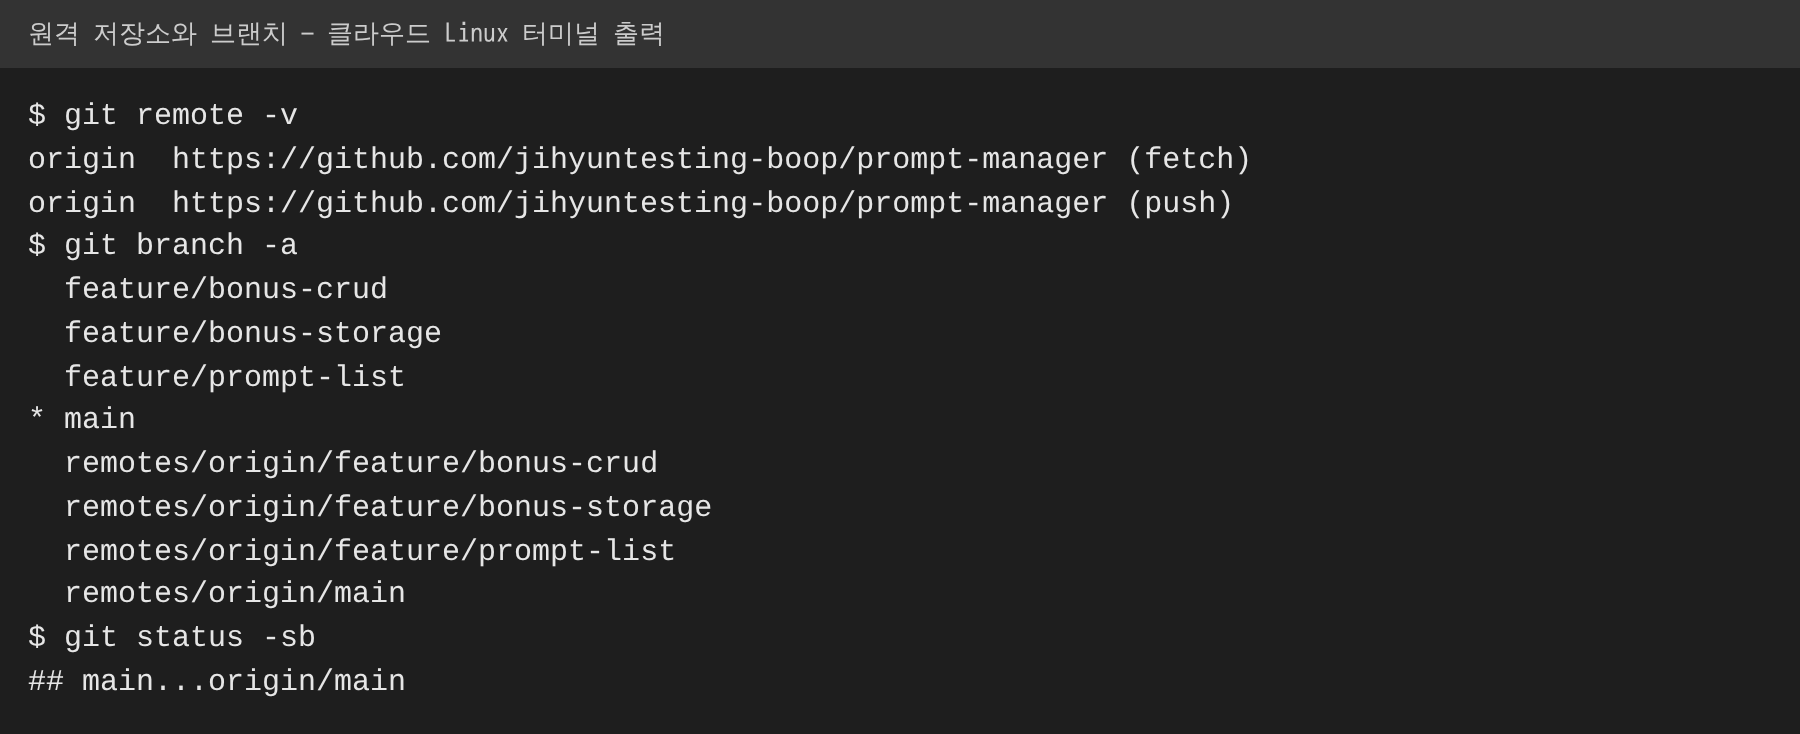
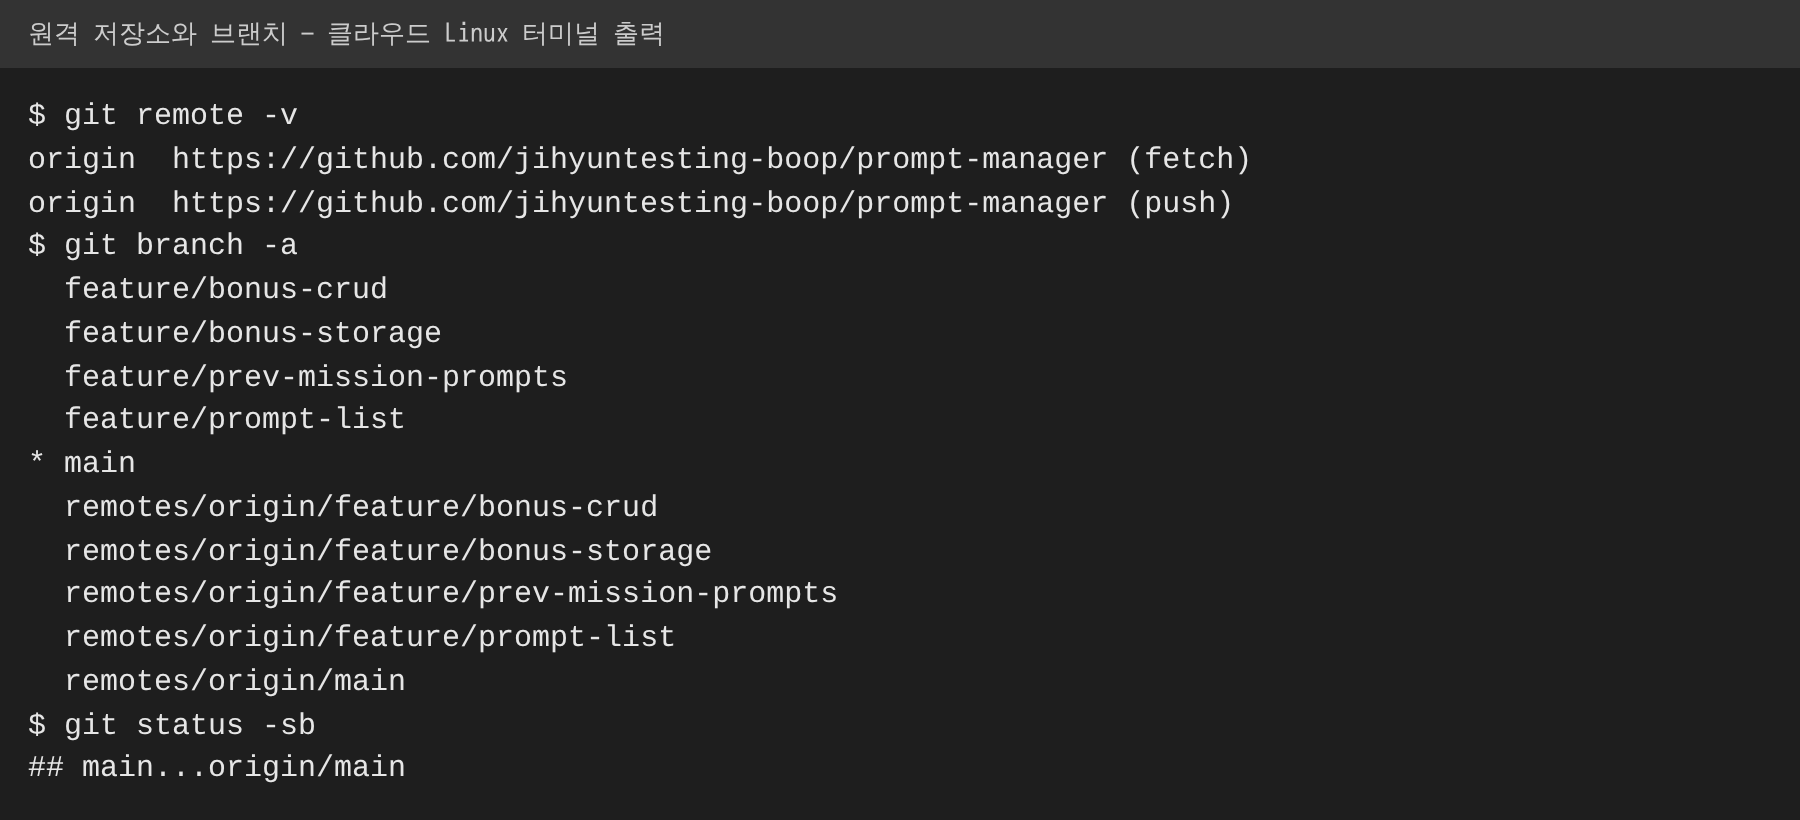
docs: update checklist for real prompts, refresh screenshots
Claude-Session: https://claude.ai/code/session_015SUUWzmeZgfThQq5sPifod

Changed region(s): [[0.0, 0.1199, 0.6844, 0.9591], [0.0, 0.03, 0.3733, 0.0599]]

diff --git a/CHECKLIST.md b/CHECKLIST.md
@@ -11,7 +11,7 @@
 | ✅ | 메뉴 번호로 기능을 선택하는 콘솔 프로그램 | `python main.py`, 스크린샷 02 |
 | ✅ | 추가, 목록, 카테고리별 조회, 검색, 상세 보기, 즐겨찾기 동작 | 스크린샷 02, 03 |
 | ✅ | 실행 중 추가한 프롬프트와 즐겨찾기 유지, 종료 시 초기화 | 메모리 리스트만 사용. 8번 메뉴로 직접 저장할 때만 파일 생성 |
-| ⚠ | 이전 미션 프롬프트 3개 이상을 기본 데이터로 등록 | 기본 데이터 5개는 등록됨. 단, 작성자가 만든 **예시**이며 실제 이전 미션 프롬프트로 교체 필요 (`prompt_manager/data.py`) |
+| ✅ | 이전 미션 프롬프트 3개 이상을 기본 데이터로 등록 | 이전 미션 저장소 `B1-1.ChatGPT-`(회의록 요약 프로젝트)의 프롬프트 6개를 등록 (`prompt_manager/data.py`) |
 | ✅ | 프로젝트 코드가 GitHub에 업로드됨 | 위 저장소 URL |
 | ✅ | 기능 단위 커밋 10개 이상 | `git rev-list --count main` (수십 개), 스크린샷 04 |
 | ✅ | 브랜치 생성 및 병합 기록 | `feature/prompt-list`, `feature/bonus-storage`, `feature/bonus-crud`를 `checkout -b`로 만들고 `merge --no-ff`로 병합 |
@@ -81,7 +81,7 @@
 
 | 상태 | 항목 | 근거 |
 |---|---|---|
-| ⚠ | 이전 미션 프롬프트 3개 이상 미리 등록 | 위 1번 항목과 동일. 5개 등록, 예시 내용 |
+| ✅ | 이전 미션 프롬프트 3개 이상 미리 등록 | 6개 등록 (회의록 정리 v1, 입력 템플릿, 미노 페르소나 v2, few-shot 예시, 임원 보고용 변환, 모델 비교용 입력) |
 | ✅ | 리스트와 딕셔너리로 저장 | `data.py`의 `create_prompt`, `get_default_prompts` |
 | ✅ | 제목, 내용, 카테고리, 즐겨찾기 여부 포함 | `tests/test_features.py` (보너스로 `views` 추가) |
 | ✅ | 카테고리 예시 6종 | `CATEGORIES` |
@@ -149,11 +149,18 @@
 | ✅ | 10개 이상의 의미 있는 커밋 | `feat`, `fix`, `docs`, `test`, `chore` 접두어로 변경 의도를 설명 |
 | ✅ | init, add, commit, push, pull, checkout, clone, merge 각 1회 이상 | init(저장소 생성), add/commit(전체 이력), push(원격 반영), pull(`Already up to date` 확인), checkout(브랜치 생성/이동), clone(샘플 저장소), merge(`--no-ff` 병합 3회) |
 | ✅ | 브랜치 생성 및 병합을 로컬 checkout, merge로 수행 | 스크린샷 04 |
-| ⚠ | 이전 미션 프롬프트 3개 이상을 기본 데이터로 등록 | 위와 동일: 실제 프롬프트로 교체 필요 |
+| ✅ | 이전 미션 프롬프트 3개 이상을 기본 데이터로 등록 | 위와 동일 (6개) |
 
 ## 남은 할 일 (사용자 PC에서)
 
-1. VSCode에 Python 확장(과 선택으로 Korean Language Pack) 설치, GitHub 로그인 후 연동 확인, 해당 화면 캡처
-2. 사용자 PC에서 `git config --global user.name`, `user.email`, `init.defaultBranch main` 설정 후 캡처
-3. 저장소를 clone해 `python main.py` 실행 화면과 `git log --oneline --graph` 화면 캡처 (원하면 클라우드 터미널 이미지 대신 사용)
-4. `prompt_manager/data.py`의 기본 프롬프트를 실제 이전 미션 프롬프트로 교체 (내용을 알려 주면 대신 반영 가능)
+VSCode와 PC의 Git 설정은 이 클라우드 환경에서 만질 수 없어 PC에서 해야 합니다. 설치와 설정은 스크립트 한 번으로 끝나도록 준비했습니다. (Windows PowerShell, 이 환경에는 PowerShell이 없어 **스크립트는 실행해 보지 못했습니다**)
+
+```powershell
+git clone https://github.com/jihyuntesting-boop/prompt-manager
+cd prompt-manager
+.\scripts\setup-windows.ps1 -Name "GitHub사용자명" -Email "GitHub에 등록한 이메일"
+```
+
+1. 위 스크립트로 Python 확장, Korean Language Pack 설치와 Git 사용자 정보, 기본 브랜치 설정을 한 번에 처리
+2. VSCode 왼쪽 아래 계정 아이콘에서 GitHub 로그인(브라우저 승인 필요), 로그인된 화면 캡처
+3. `python main.py` 실행 화면과 `git log --oneline --graph` 화면 캡처 (클라우드 터미널 이미지 대신 PC 화면을 내려면)
